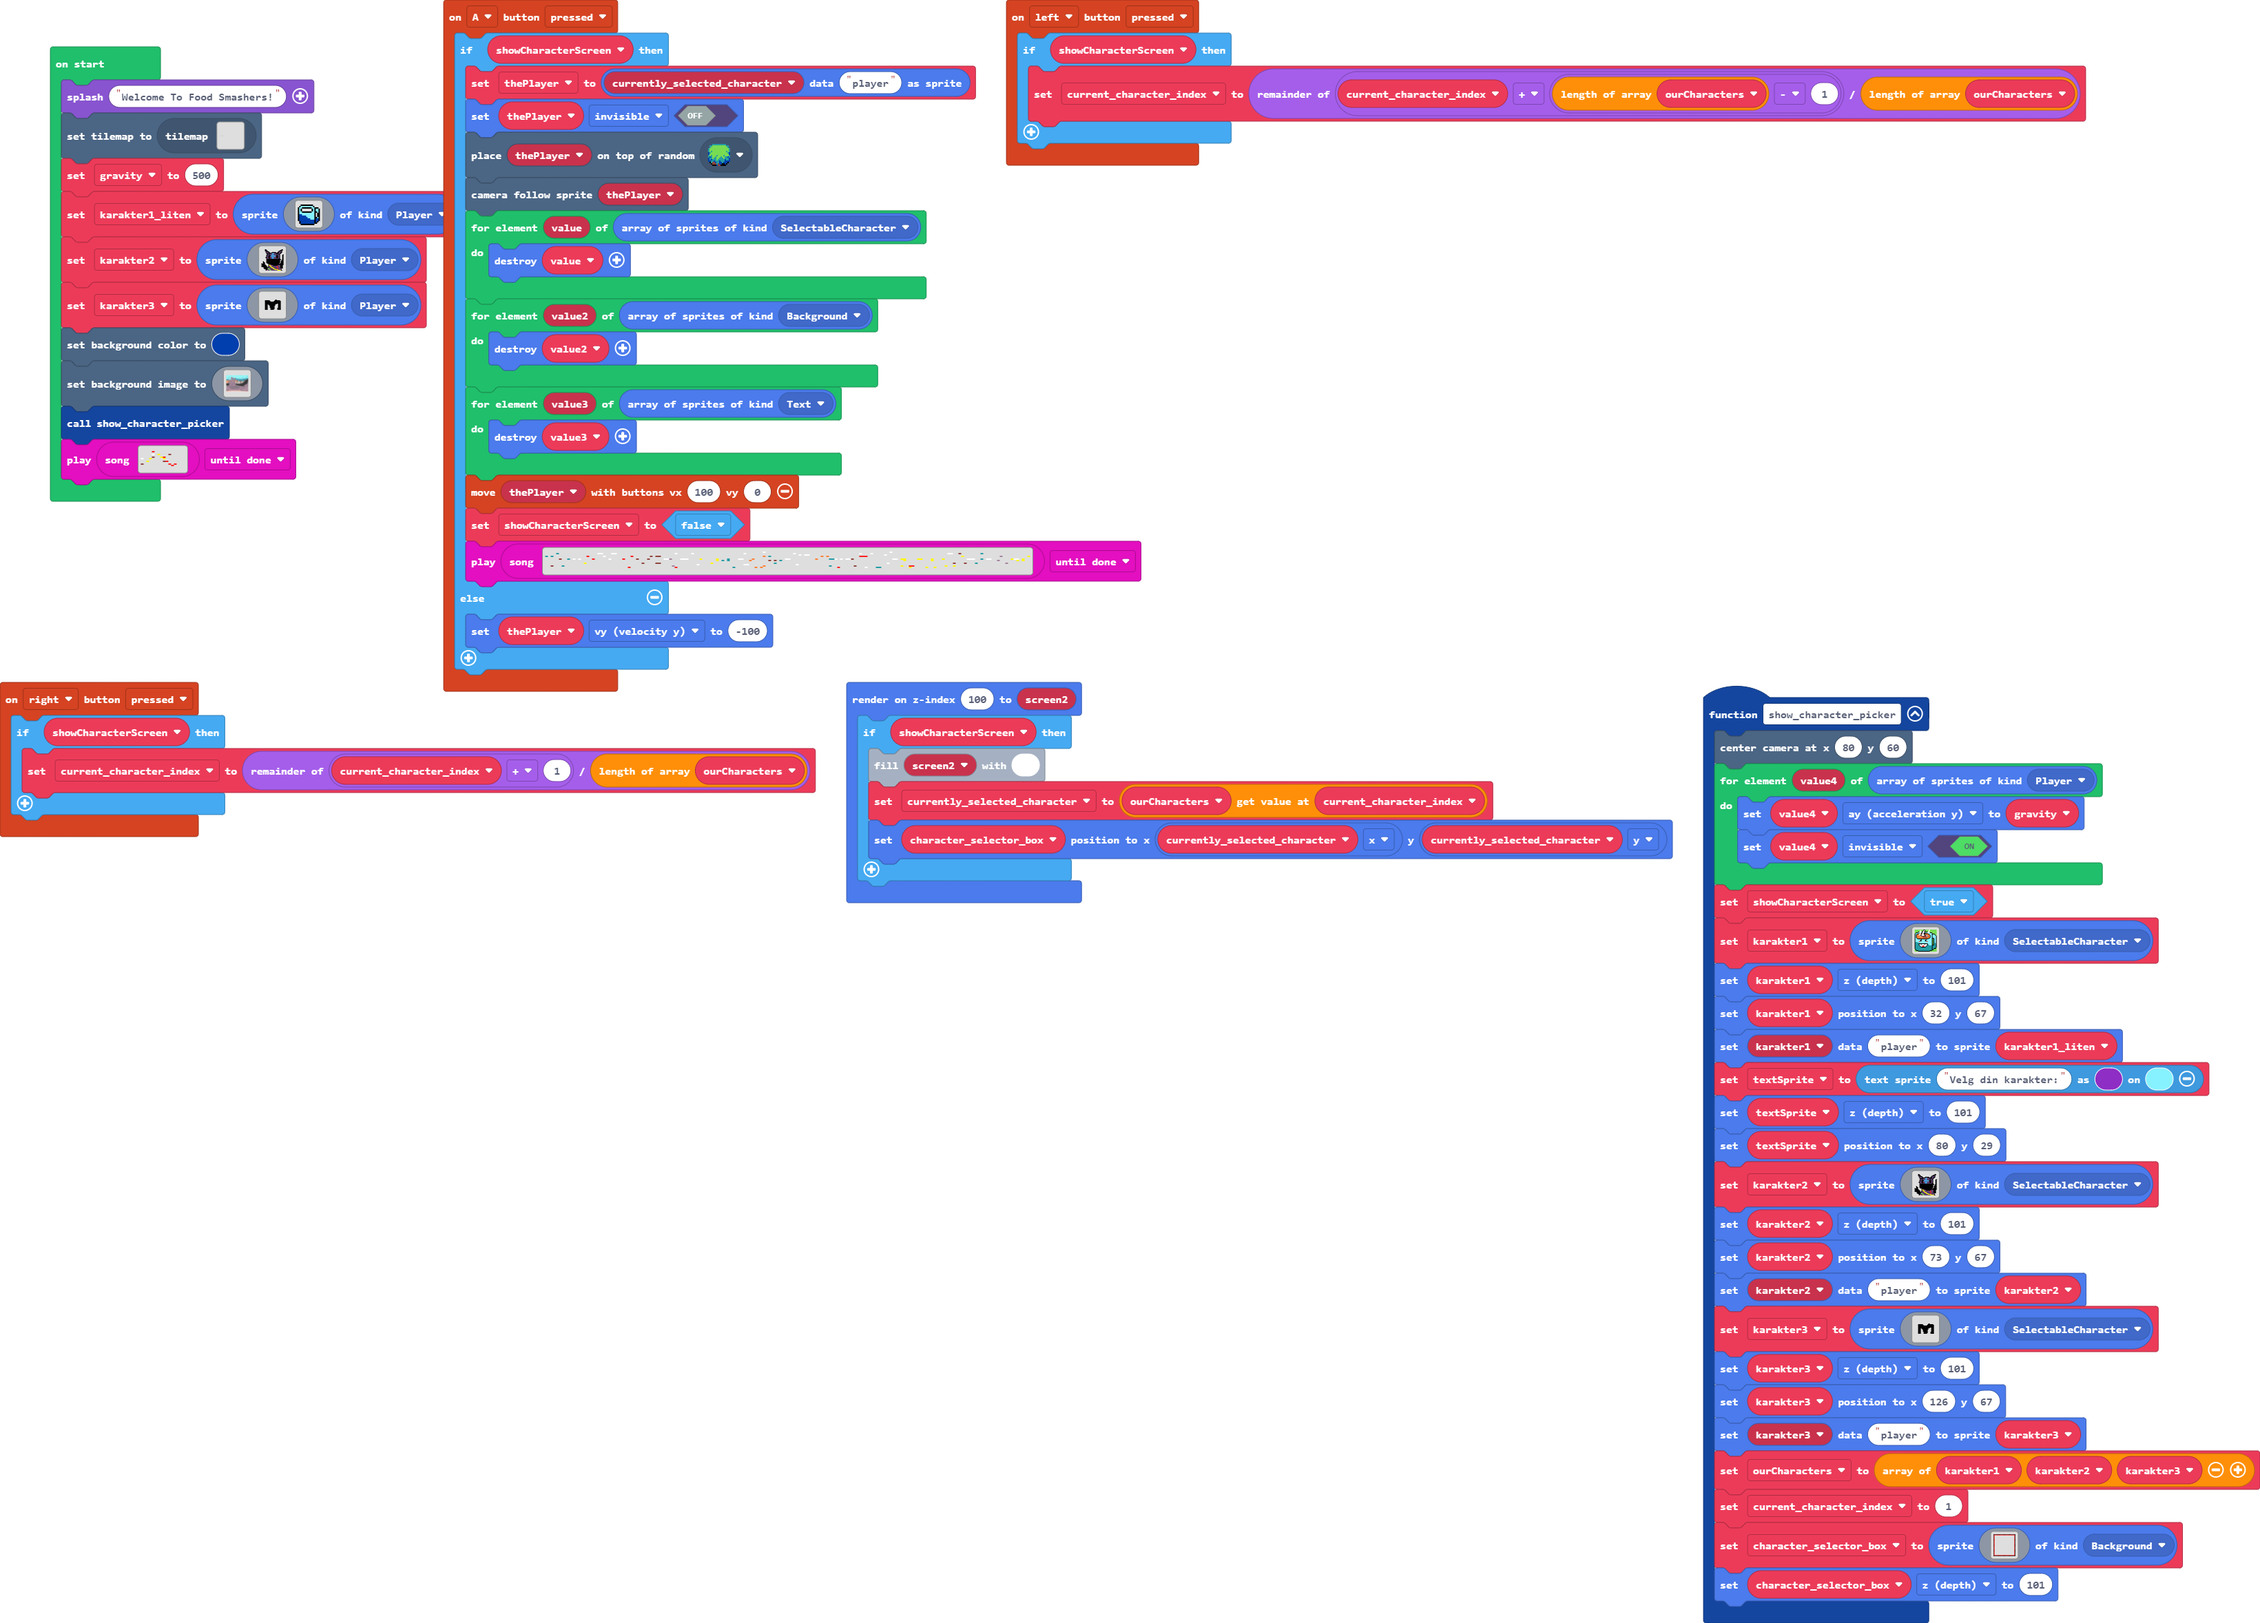
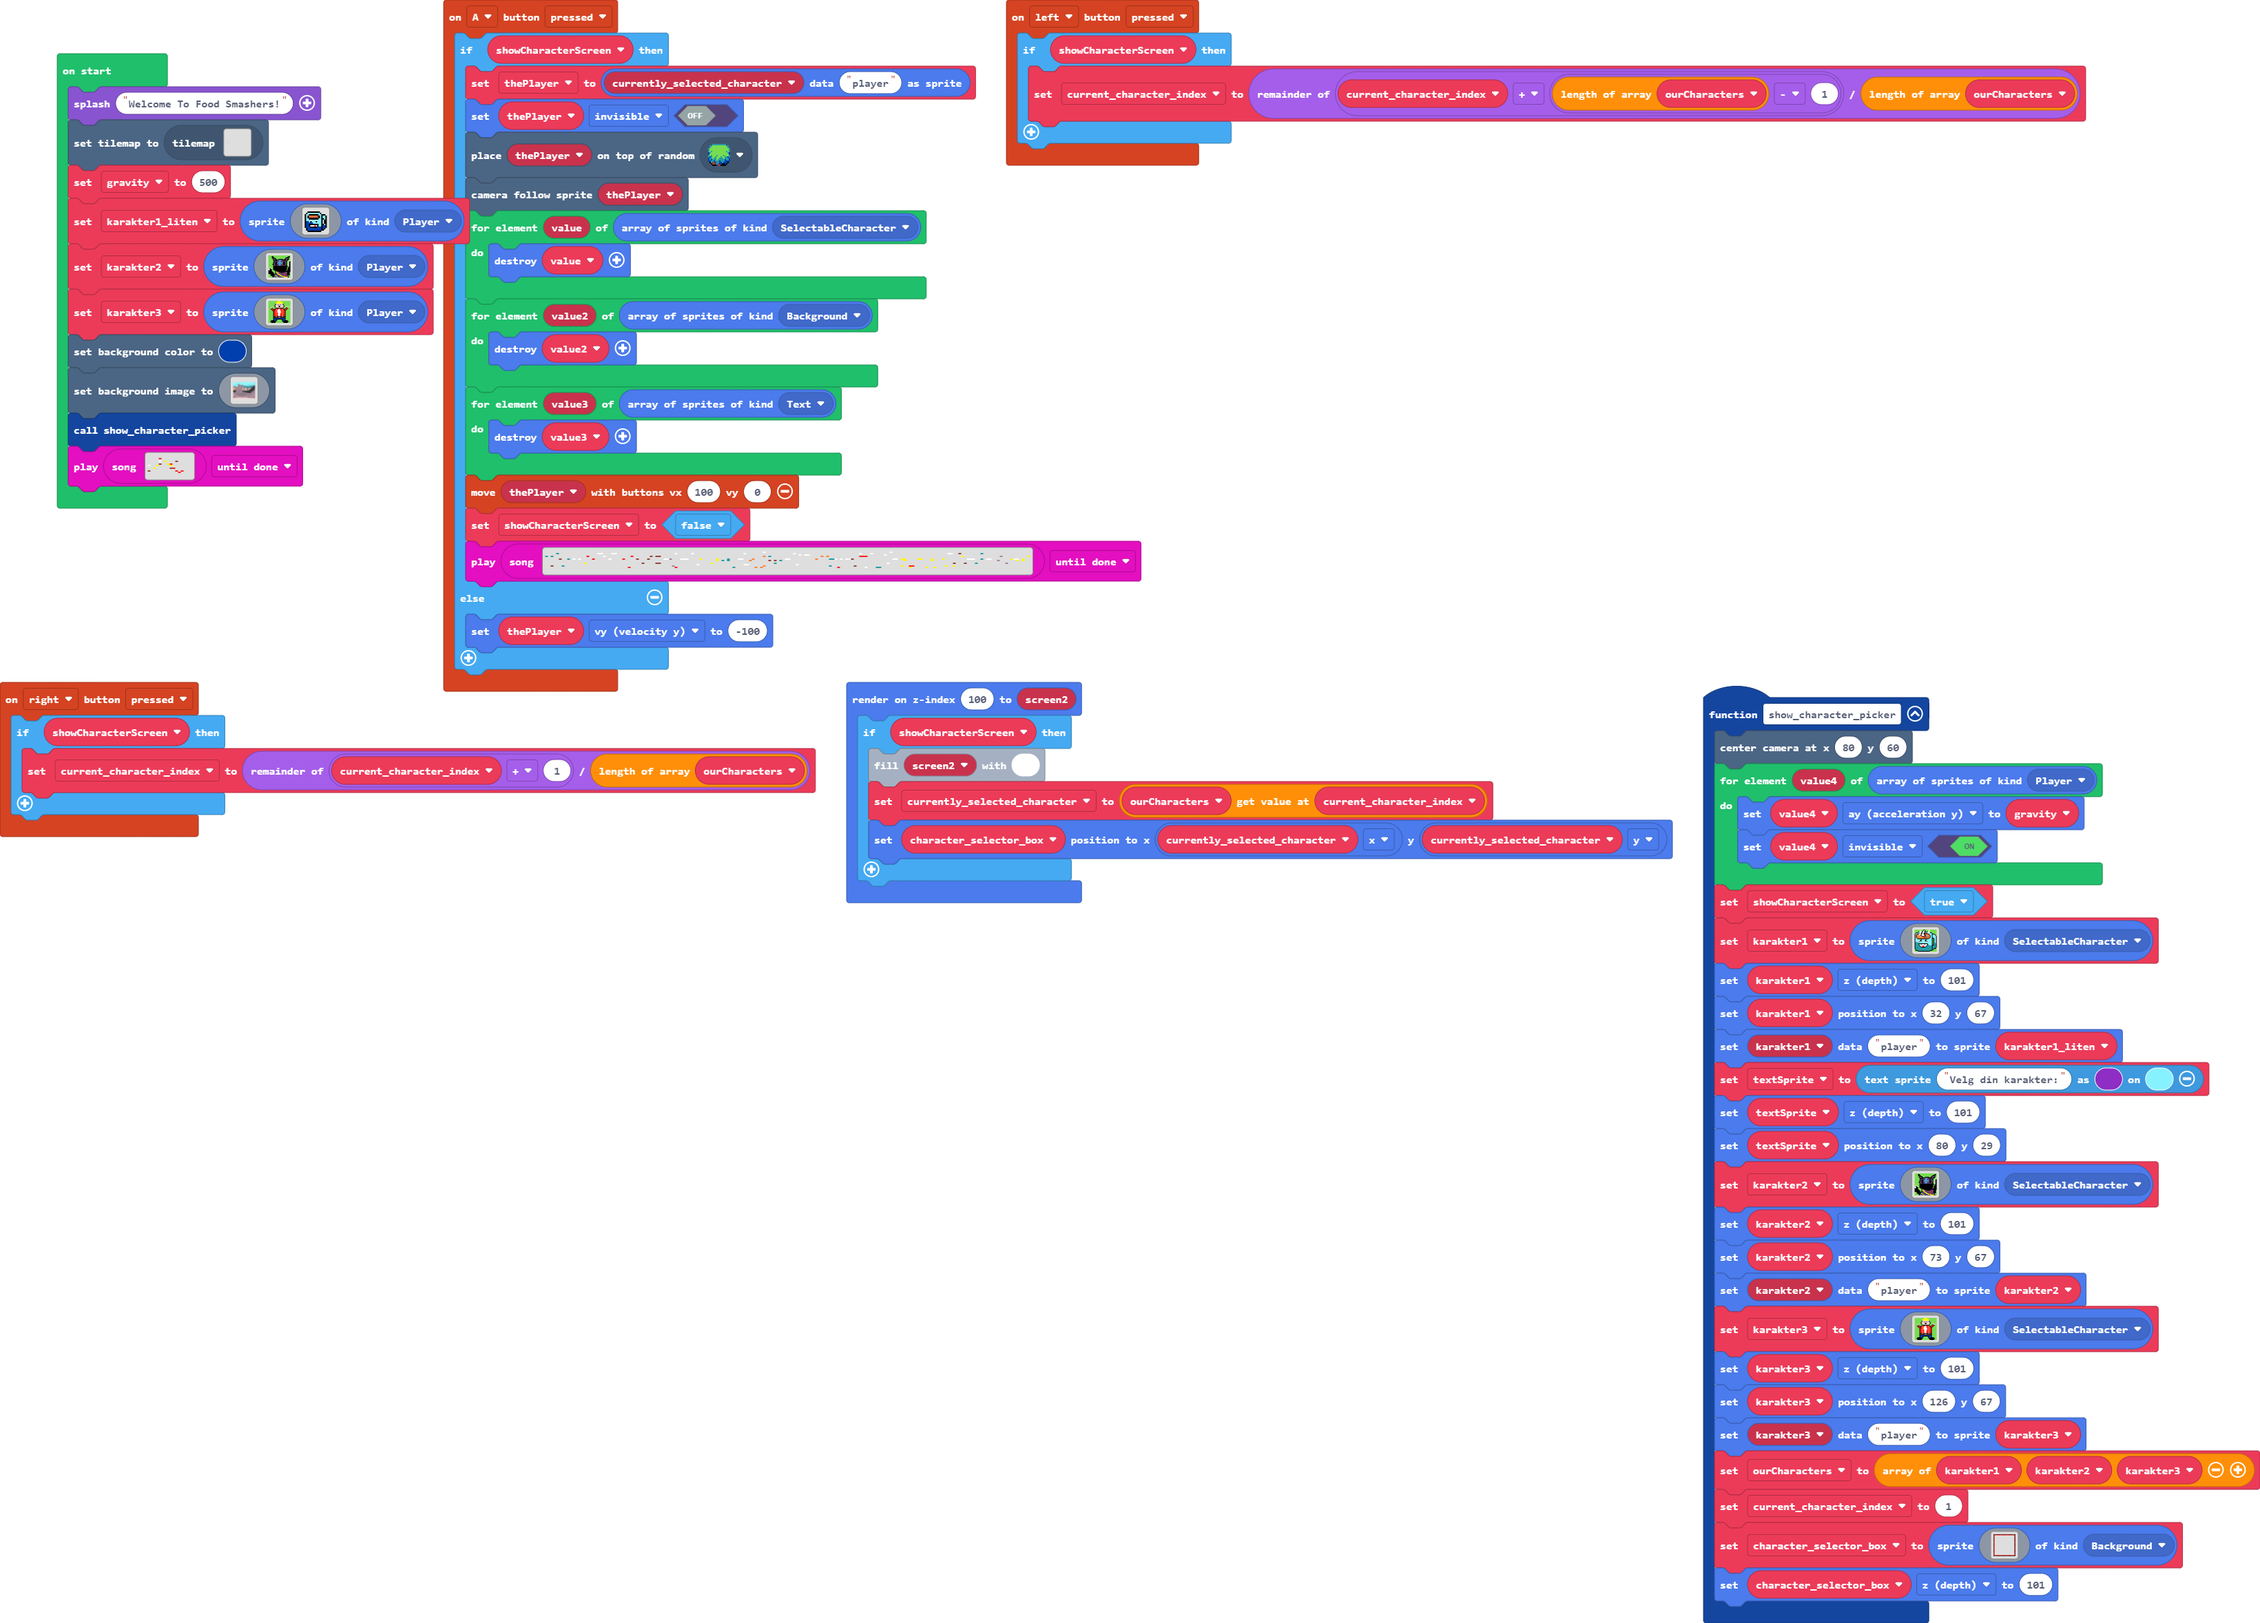
Update main.blocks, images.g.jres, images.g.ts

Changed region(s): [[0.0, 0.031, 0.2176, 0.3407], [0.8394, 0.8053, 0.8705, 0.8362]]

diff --git a/images.g.ts b/images.g.ts
@@ -3,41 +3,6 @@ namespace myImages {
 
     helpers._registerFactory("image", function(name: string) {
         switch(helpers.stringTrim(name)) {
-            case "image3":
-            case "myImage":return img`
-................................
-................................
-................................
-................................
-................................
-................................
-................................
-................................
-....................ff..........
-.....fffffff.......ffffffff.....
-.....ffffffff.....ffffffffff....
-.....fffffffffffffffffffffff....
-.....fffffffffffffffffffffff....
-.....fffffffffffffffffffffff....
-.....fffffffffffffffff..ffff....
-.....ffff.ffffffffff....ffff....
-.....ffff..fffffffff....ffff....
-.....ffff...fffffff.....ffff....
-.....ffff...fffffff.....ffff....
-.....ffff...fffffff.....ffff....
-.....ffff....ffffff....fffff....
-.....ffff....ffffff....fffff....
-.....ffff....fffff.....fffff....
-................................
-................................
-................................
-................................
-................................
-................................
-................................
-................................
-................................
-`;
             case "image4":
             case "background":return img`
 9999999999999999999999999999999999999999999999999999999999999999999999999999999999999999999999999966666699969999999999999999999999999999999999999999999999999999
@@ -357,6 +322,41 @@ f 8 8 8 f f f f f 8 8 8 f 8 8 f
 . . . . . . . . . . . . . . . . 
 . . . . . . . . . . . . . . . . 
 . . . . . . . . . . . . . . . . 
+`;
+            case "image3":
+            case "myImage":return img`
+77777777777777555577777777777777
+77777777777755555555777777777777
+77777777777555555555577777777777
+77777777777555555555577777777777
+7777777777fddd1dd1dddf7777777777
+7777777777fdddfddfdddf7777777777
+777777777fddddddddddddf777777777
+777777777fdddddffdddddf777d77777
+77777d777fdddddffdddddf777dd7dd7
+7777dd7777fddddddddddf7777fddd77
+777ddf77777ffffffffff7777f22f777
+77df22f77ff4222dd2224ff7f22f7777
+7777f22ff224221dd222422f22f77777
+77777f22f22421111222422f2f777777
+777777f2f224211111224222f7777777
+7777777f2224211111224222f7777777
+7777777f2224211111224222f7777777
+7777777f2224221111224222f7777777
+7777777f2224221112224222f7777777
+7777777f2224221112224222f7777777
+7777777f2224221112224222f7777777
+7777777f2224221112224222f7777777
+7777777ffffdffffffffdffff7777777
+7777777feeeeeee11eeeeeeef7777777
+7777777ffffffffffffffffff7777777
+7777777f8888888888888888f7777777
+7777777f888f8ffffff8f888f7777777
+7777777f888ff777777ff888f7777777
+7777fffff88f77777777f88fffff7777
+777fffffff8f77777777f8fffffff777
+777ffffffff7777777777ffffffff777
+7777ffffff777777777777ffffff7777
 `;
         }
         return null;
